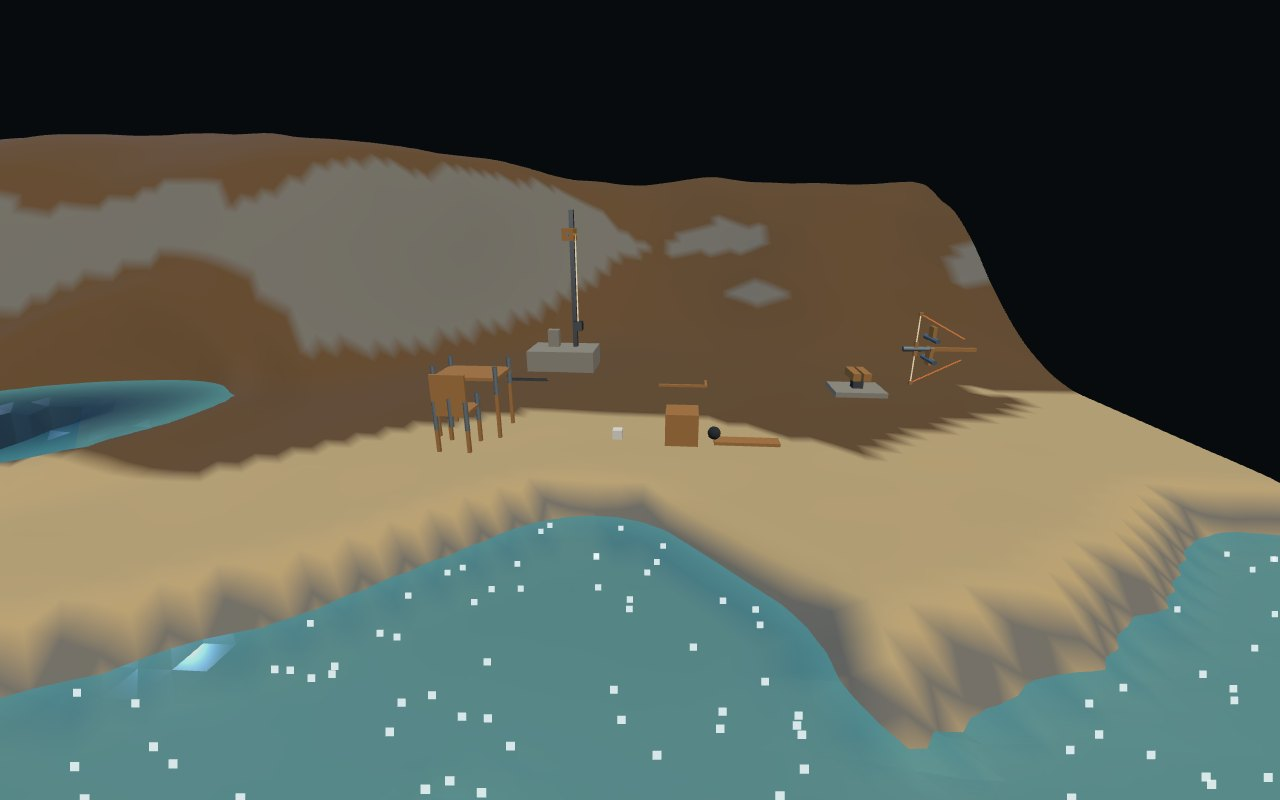
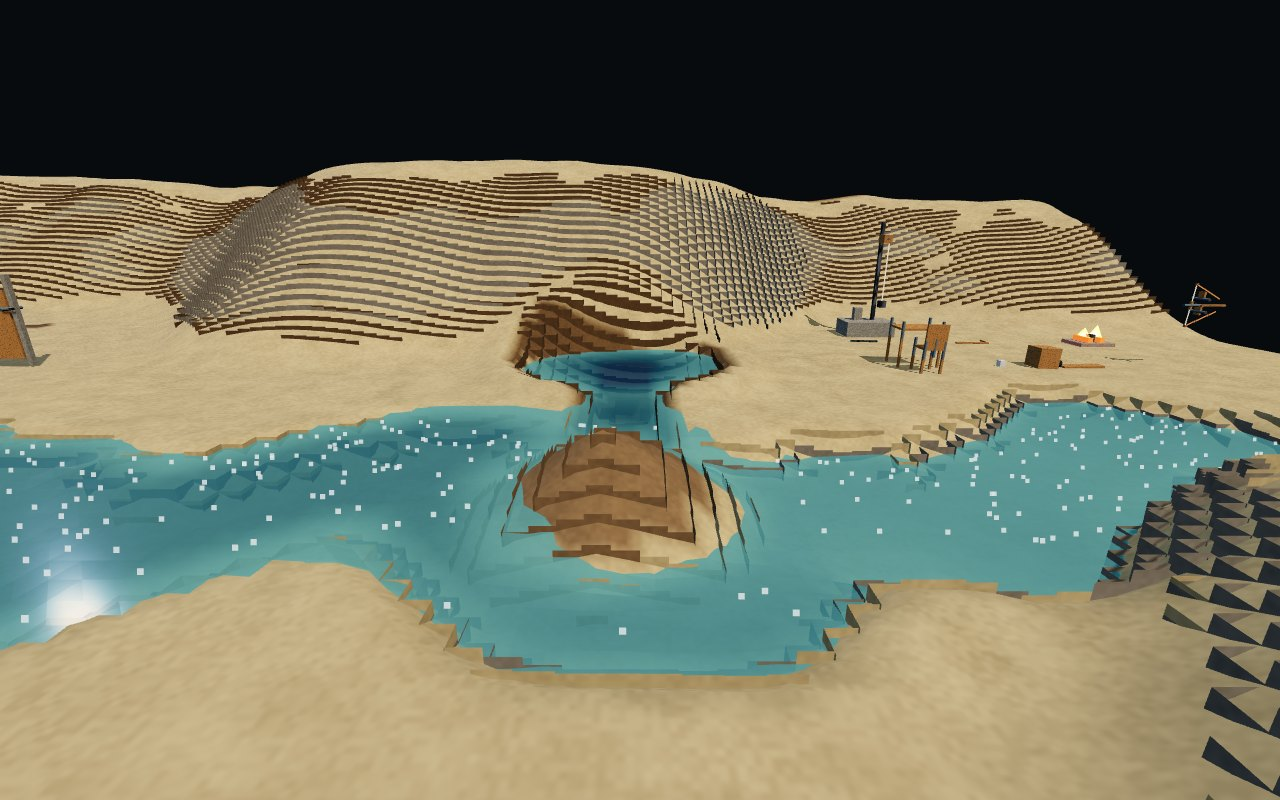
The README says what the engine does now, and its world pictures are this week's
Audited against the code rather than against itself, on today's main.

WHAT WAS WRONG:
- 27 rooms exist; the README said 26 and the room list documented 25. `new-game`
  and `tests-pour` were in the engine and in neither. Both are listed now.
- "Water: containers and pouring" sat under what is NOT built, three days after
  containers landed. A container holds a mass of a substance, rides what carries
  it, knows what temperature it holds, and pours into another or onto the ground.
- The menu shows 2 of 27, not 2 of 25.

WHAT WAS MISSING. Everything below landed after the README was last rewritten
and none of it was mentioned:
- THE GROUND. A column is a list of runs now -- a material and the height it
  reaches, bottom to top -- 30 m down instead of 2, with the rock beneath it a
  stack of beds. The generated valley has geology in it: weathered rock over the
  rock, a clay bed dipping along the valley, an ore vein at its own strike and
  dip, oxidised where the weather reached it. The page draws a column's top in
  what it is MADE of, so the vein is a rust stain you can walk to; a cut shows
  its bands; a survey says the column in words.
- THE FURNACE. A chamber of gas its element heats and its lining leaks, holding
  `ambient + P/U`, so a thin lining is refused with the temperature it would top
  out at. Six recipes wait for their machine to be hot.
- WHAT A ROOM HAS SEEN. Being somewhere is the only thing that reveals it: six
[…]

diff --git a/README.md b/README.md
@@ -353,11 +353,24 @@ floor where there is none.
 over 333.55 kJ/kg — and it is now 128 mm across. Its meltwater ran downhill and
 pooled below it, 5.41 kg into the valley's water, whose ledger still closes.*
 
+**A furnace is a chamber of gas with a lining that leaks.** An electric furnace
+built at the bench has a real inside: its element heats the gas, its lining
+loses heat to the room, and what it can reach is `ambient + P/U` — so a 40 mm
+lining cannot get hot enough to burn lime, an 80 mm one smelts iron, and asking
+the bench for one too thin to do the job is refused with the temperature it
+would top out at instead. Six recipes will not run until their machine is at
+temperature; click the copper smelter in `/world?scene=new-game` and its routine
+line reads "heating for smelt copper: 917 C of 1085 C". Left alone, a furnace is
+cold again within a minute.
+
 **Not built:** freezing or boiling in the world (the separate voxel thermal
 simulation still has its own, unconnected); fires that go out; thermal
-expansion; smoke and airflow; heat into water or into the ground — a burning
-log in the river keeps burning; and friction, impact, cutting or motor work
-turning into heat.
+expansion; smoke, flame gas and airflow; heat into water or into the ground — a
+burning log in the river keeps burning; friction, impact, cutting or motor work
+turning into heat; gas pressure on a container's walls; heat on an exact body
+(a gas region beside it, yes; the body itself, no); and thermal mass in a
+furnace's lining, so its warm-up is hundreds of times faster than a real one's
+even though where it settles is right.
 
 ---
 
@@ -387,8 +400,27 @@ fills a reservoir upstream.
 blue strips beyond its ends are the coarse network, running upstream to a
 reservoir and downstream to a lake.*
 
-The ground is columns of rock, soil and sand. After an edit, only the columns it
-disturbed are checked for stability (Mohr-Coulomb friction, and Terzaghi's
+The ground is columns, and **since 28 September a column is a list of runs — a
+material and the height it reaches, bottom to top — all the way down.** It goes
+down 30 m below the lowest rock there is, where it used to stop at 2 m, which is
+no earth for a mine to work in. The rock under that is a stack of beds, and the
+generated valley now has geology in it: a mantle of weathered rock over the
+rock, a bed of clay dipping along the valley under it, and a vein of ore cutting
+through both at its own strike and dip, oxidised where the weather reached it.
+
+Because the page draws the top of a column in what the column is *made of*
+rather than in one of three surface kinds, **the vein shows as a rust stain on
+the knoll's bare rock, and you can walk up to it.** Cut into the ground and the
+face is drawn in the materials it cuts through — a pit through sand into soil
+and down to rock has a sand band, a soil band and rock at its floor. Ask for a
+survey and it says the same column in words: "18 cm of sand, then 96 cm of soil,
+then rock". A cut that would reach a bed that is not rock is refused with the
+reason, because a block of anything else is not accounted for yet. A room saved
+before all this gets the deeper earth when it is opened again, with the rock
+that appears under it added to the ledger's opening figure, so the room's own
+account still closes.
+
+After an edit, only the columns it disturbed are checked for stability (Mohr-Coulomb friction, and Terzaghi's
 critical height for cohesive soil): a sand pit settles to its angle of repose,
 a 0.5 m soil trench stands and a 1.6 m one caves in, and whatever stood on the
 ground falls in. Digging one pit rechecked 65 columns, rebuilt 1 of 20 ground
@@ -404,9 +436,15 @@ of sand and 29 kg of soil carried: 80 of the 80 kg a person can carry, so
 walking slows to 40% and a second dig is refused. What you dig is carried, and
 heaping it puts back exactly what came out.*
 
+**Things hold things, and tip them out.** A container holds a mass of a
+substance, rides whatever carries it, and knows what temperature what it holds
+is at. Turn a full one over above an empty one and it pours; what misses lands
+as a heap on the ground. `/world?scene=tests-pour` is two pails on a bench with
+18 kg of sand in one of them, and the Room tab's slots say what each is holding.
+
 **Not built:** waves and wakes, sediment, rain, wet soil, water putting out
-fire; breaking rock with a pick, tool wear, landslides that rotate rather than
-slump.
+fire; breaking rock under a tool, tool wear, landslides that rotate rather than
+slump, and the holes and tunnels the earth is now deep enough to hold.
 
 ---
 
@@ -601,6 +639,20 @@ be (the braking kills the swing it predicted, so it stopped 35 degrees off and
 called itself faced) and easing the turn as it closes (at three tenths effort
 it could not come round on rough ground at all) — and both are written down in
 [machine-world.md](docs/machine-world.md) rather than quietly dropped.
+
+**A room only knows what something has been near.** A room used to answer about
+ground nobody had ever visited as readily as about the ground a machine was
+standing on: every deposit in the spec went into every machine's senses, and the
+page drew the whole basin from the first frame. A world like that has nothing to
+find out, and a routine sent to a vein was being told where to dig by the
+document rather than by anything that had happened. So a room now keeps what has
+been *seen* — a coarse grid, a metre a cell, kept with the room, so a place stays
+known once someone has been there and a reload does not forget it. Being there is
+the only thing that reveals it: after every step everything in the room marks a
+circle round where it stands, six metres for a machine on the ground or a person
+on foot, and a metre and a half more for every metre a machine is above it, up to
+thirty. Not a routine's places, not a deposit declared in the spec, not anything
+the chat knows.
 
 ### A machine that flies
 
@@ -899,7 +951,7 @@ It listens on `127.0.0.1` only and keeps its rooms in
 |---|---|
 | `/` and `/world` | the main world, with the chat and the side panel |
 | `/world?workshop=1` | the bench: design one product at a time, drive it, and make it |
-| `/world?scene=<room>` | any of the 26 rooms ([the list](docs/what-works-where.md#the-rooms)) |
+| `/world?scene=<room>` | any of the 27 rooms ([the list](docs/what-works-where.md#the-rooms)) |
 | `/debug` | not the game: every room one click away, what the engine reports, the QA suites |
 
 That is the whole site. The Explorer, the fabrication page, the three QA pages
@@ -928,7 +980,34 @@ hoist.
 |---|---|
 | ![The west terrace: a bell hanging on a rope in a frame, a self-closing door, a portcullis with its winch, and a latched gate, above the river](docs/images/readme/world-west-terrace.jpg) | ![The east terrace: a table and chair, the battery hoist's mast, a crate, a plank and a ball, the hearth and a bow, above the river](docs/images/readme/world-east-terrace.jpg) |
 
-**Twenty-four other rooms exist, and the menu offers two of them** —
+**A new game is generated from a seed, and then proved playable.**
+`/world?scene=new-game` is a valley laid out by `playground/world_seed.py`: ore
+in the high ground, sand and clay by the water, timber where it fell, each
+deposit dry, flat enough to work, clear of the others, and somewhere a machine
+can actually drive to. Then it *walks it* — from what a new game starts with,
+can you reach every material and every good the Workshop spends? A map that
+strands something is thrown away and another is seeded, because a generator that
+cannot say whether its world is playable is a random number generator.
+
+**It does not draw yet.** Open `/world?scene=new-game` today and you get bare
+ground: the engine has the room — its own greeting counts "9 things, made of
+concrete, oak, iron", and the clock runs — but the page draws none of them
+(`banjoRoom.hullsDrawn()` reports zero hulls, cells and triangles, on a fresh
+server with a fresh rooms directory). `/world?scene=tests-pour` is the same. The
+`world` and `explore` rooms draw normally, so this is these two rooms rather than
+the renderer. It is the same signature as the browser journey tests that are
+failing on `main`.
+
+It exists because a new game used to be unwinnable, and the loop is worth
+stating: the only thing that digs is the Workshop's rover, the rover costs
+copper wire, wire is drawn from copper, copper is smelted from ore, and ore has
+to be dug. You need the digger to make the digger. The knowledge graph had
+forbidden exactly this for years — "a player must not need a pickaxe to obtain
+the only material capable of making their first pickaxe" — and the world had
+never been held to the same rule. It is now, and the circle is broken by what the
+start holds rather than by new physics: two machines and six yards to fill.
+
+**Twenty-five other rooms exist, and the menu offers two of them** —
 everything else opens by typing its address, which is the single biggest gap
 between what is built and what you can find.
 
@@ -937,6 +1016,7 @@ between what is built and what you can find.
 | Key | Does |
 |---|---|
 | W A S D, mouse | walk and look |
+| Left click on a thing | does what E does to that thing, in one click — the cursor picks, so it needs no lining up |
 | E | pick up what you look at, or do what the side panel marks with E; with something held, put it down where the see-through copy shows |
 | Tab | move E to the next action |
 | Q, 1–9 | put it in the bag; take a bag slot into the hand |
@@ -950,7 +1030,11 @@ between what is built and what you can find.
 
 And: W A S D walk, drag or the arrow keys look, E takes or puts down, J uses a
 thing, Q bags it, G sweeps up loose pieces, X lets go, and the mouse wheel
-pulls the camera back.
+pulls the camera back. A **zoom slider** on the view changes the field of view
+and nothing else: where you stand does not move, so what you can reach, dig,
+pick up and put down at 4× is exactly what it was at 1×. Pointing at a thing is
+enough to see what it is — the side view fills in without a click — and one
+click then does that thing's first action, where it used to take two.
 
 | Looking at it | Holding it |
 |---|---|
@@ -1108,7 +1192,7 @@ The project's own checklist of 30 player capabilities
 ([progression/physics-capabilities.json](progression/physics-capabilities.json))
 stands at **1 complete, 26 partial and 3 planned**. In rough priority order:
 
-**Get what is built into the world.** The menu shows 2 of 25 rooms, so breaking
+**Get what is built into the world.** The menu shows 2 of 27 rooms, so breaking
 under load, the gas piston, fine cells for cutting, the plates of every material
 and the whole watershed are reachable only by typing an address. The explore
 room still rebuilds its valley on every load, so nothing done in that one room
@@ -1120,8 +1204,8 @@ builder and renderer all assume one size.
 **Physics still to build.** Heat: freezing and boiling in the world, fires that
 go out, thermal expansion, smoke and airflow, heat into water and ground,
 mechanical work turning into heat. Water: waves, sediment, rain, wet soil, water
-putting out fire, containers and pouring. Ground: breaking rock, tool wear,
-rotational landslides. Machines: gears, motor heat, hinges with a strength,
+putting out fire. Ground: breaking rock under a tool, tool wear, rotational
+landslides, and the holes and tunnels the earth is now deep enough to hold. Machines: gears, motor heat, hinges with a strength,
 joints that fail by bending or prying, a bump sensor that feels a knock rather
 than a stall. Breaking: calibration against laboratory data, converged piece
 counts, a failure path for thin parts. Scale: a cell size per object, refining
@@ -1129,6 +1213,13 @@ on demand, dormant regions, beyond 16,000 cells a room and 2,000 bodies.
 Handling: two hands, grip and use points.
 
 **Known defects.**
+
+- **Two rooms draw nothing: `new-game` and `tests-pour`.** The engine runs them
+  — 9 and 3 bodies, the clock advancing, the room naming its own contents — and
+  the page shows bare ground. Reproduced 28 September on a fresh server with an
+  empty rooms directory; `world` and `explore` draw normally in the same
+  session. `new-game` is the room a new player is meant to start in, so this is
+  the first thing a newcomer would hit.
 
 - **The material range no longer matches its recorded baseline.**
   `scripts/material_qa.py` compares 96 impact cases against

diff --git a/docs/what-works-where.md b/docs/what-works-where.md
@@ -167,6 +167,7 @@ moon.
 | Room | Cell | Reached by | What to try |
 |---|---|---|---|
 | `world` | 40 mm | menu | nearly everything: breaking, burning, water, digging, joints, the hoist, the bow, the sword, the pick |
+| `new-game` | 40 mm | address | a seeded valley proved playable: ore in the high ground, sand and clay by the water, two machines and six yards to fill, and the copper smelter |
 | `expedition` | 40 mm | menu | gather stone and wood, build a dryer, dry timber (a bookkeeping model, not native physics) |
 | `explore` | 40 mm | address | a block of every material, furniture, a mace on its chain and a cart on pins; picking up, placing, using |
 | `bench` | 20 mm | address | plates of all eight materials, 20 and 40 mm thick, on piers: break them |
@@ -183,6 +184,7 @@ moon.
 | `tests-solar` | 50 mm | address | the rover with its battery nearly flat: it rests while its panel charges it |
 | `tests-day` | 50 mm | address | the rover under a sun with a four-minute day, from four in the afternoon |
 | `tests-motor` | 50 mm | address | three turntables that answer which end of a motor turns |
+| `tests-pour` | 40 mm | address | two pails on a bench, 18 kg of sand in one: tip one into the other, or onto the ground |
 | `tests-sit` | 50 mm | address | a robot told where a stool is, which goes to it and sits down |
 | `tests-mine` | 50 mm | address | a copper vein, a rover, a smelter, a drone and a mill: ore to wire |
 | `tests-break` | 20 mm | address | an oak plank on piers and a ball dropped on it: the room says what breaking it cost |
